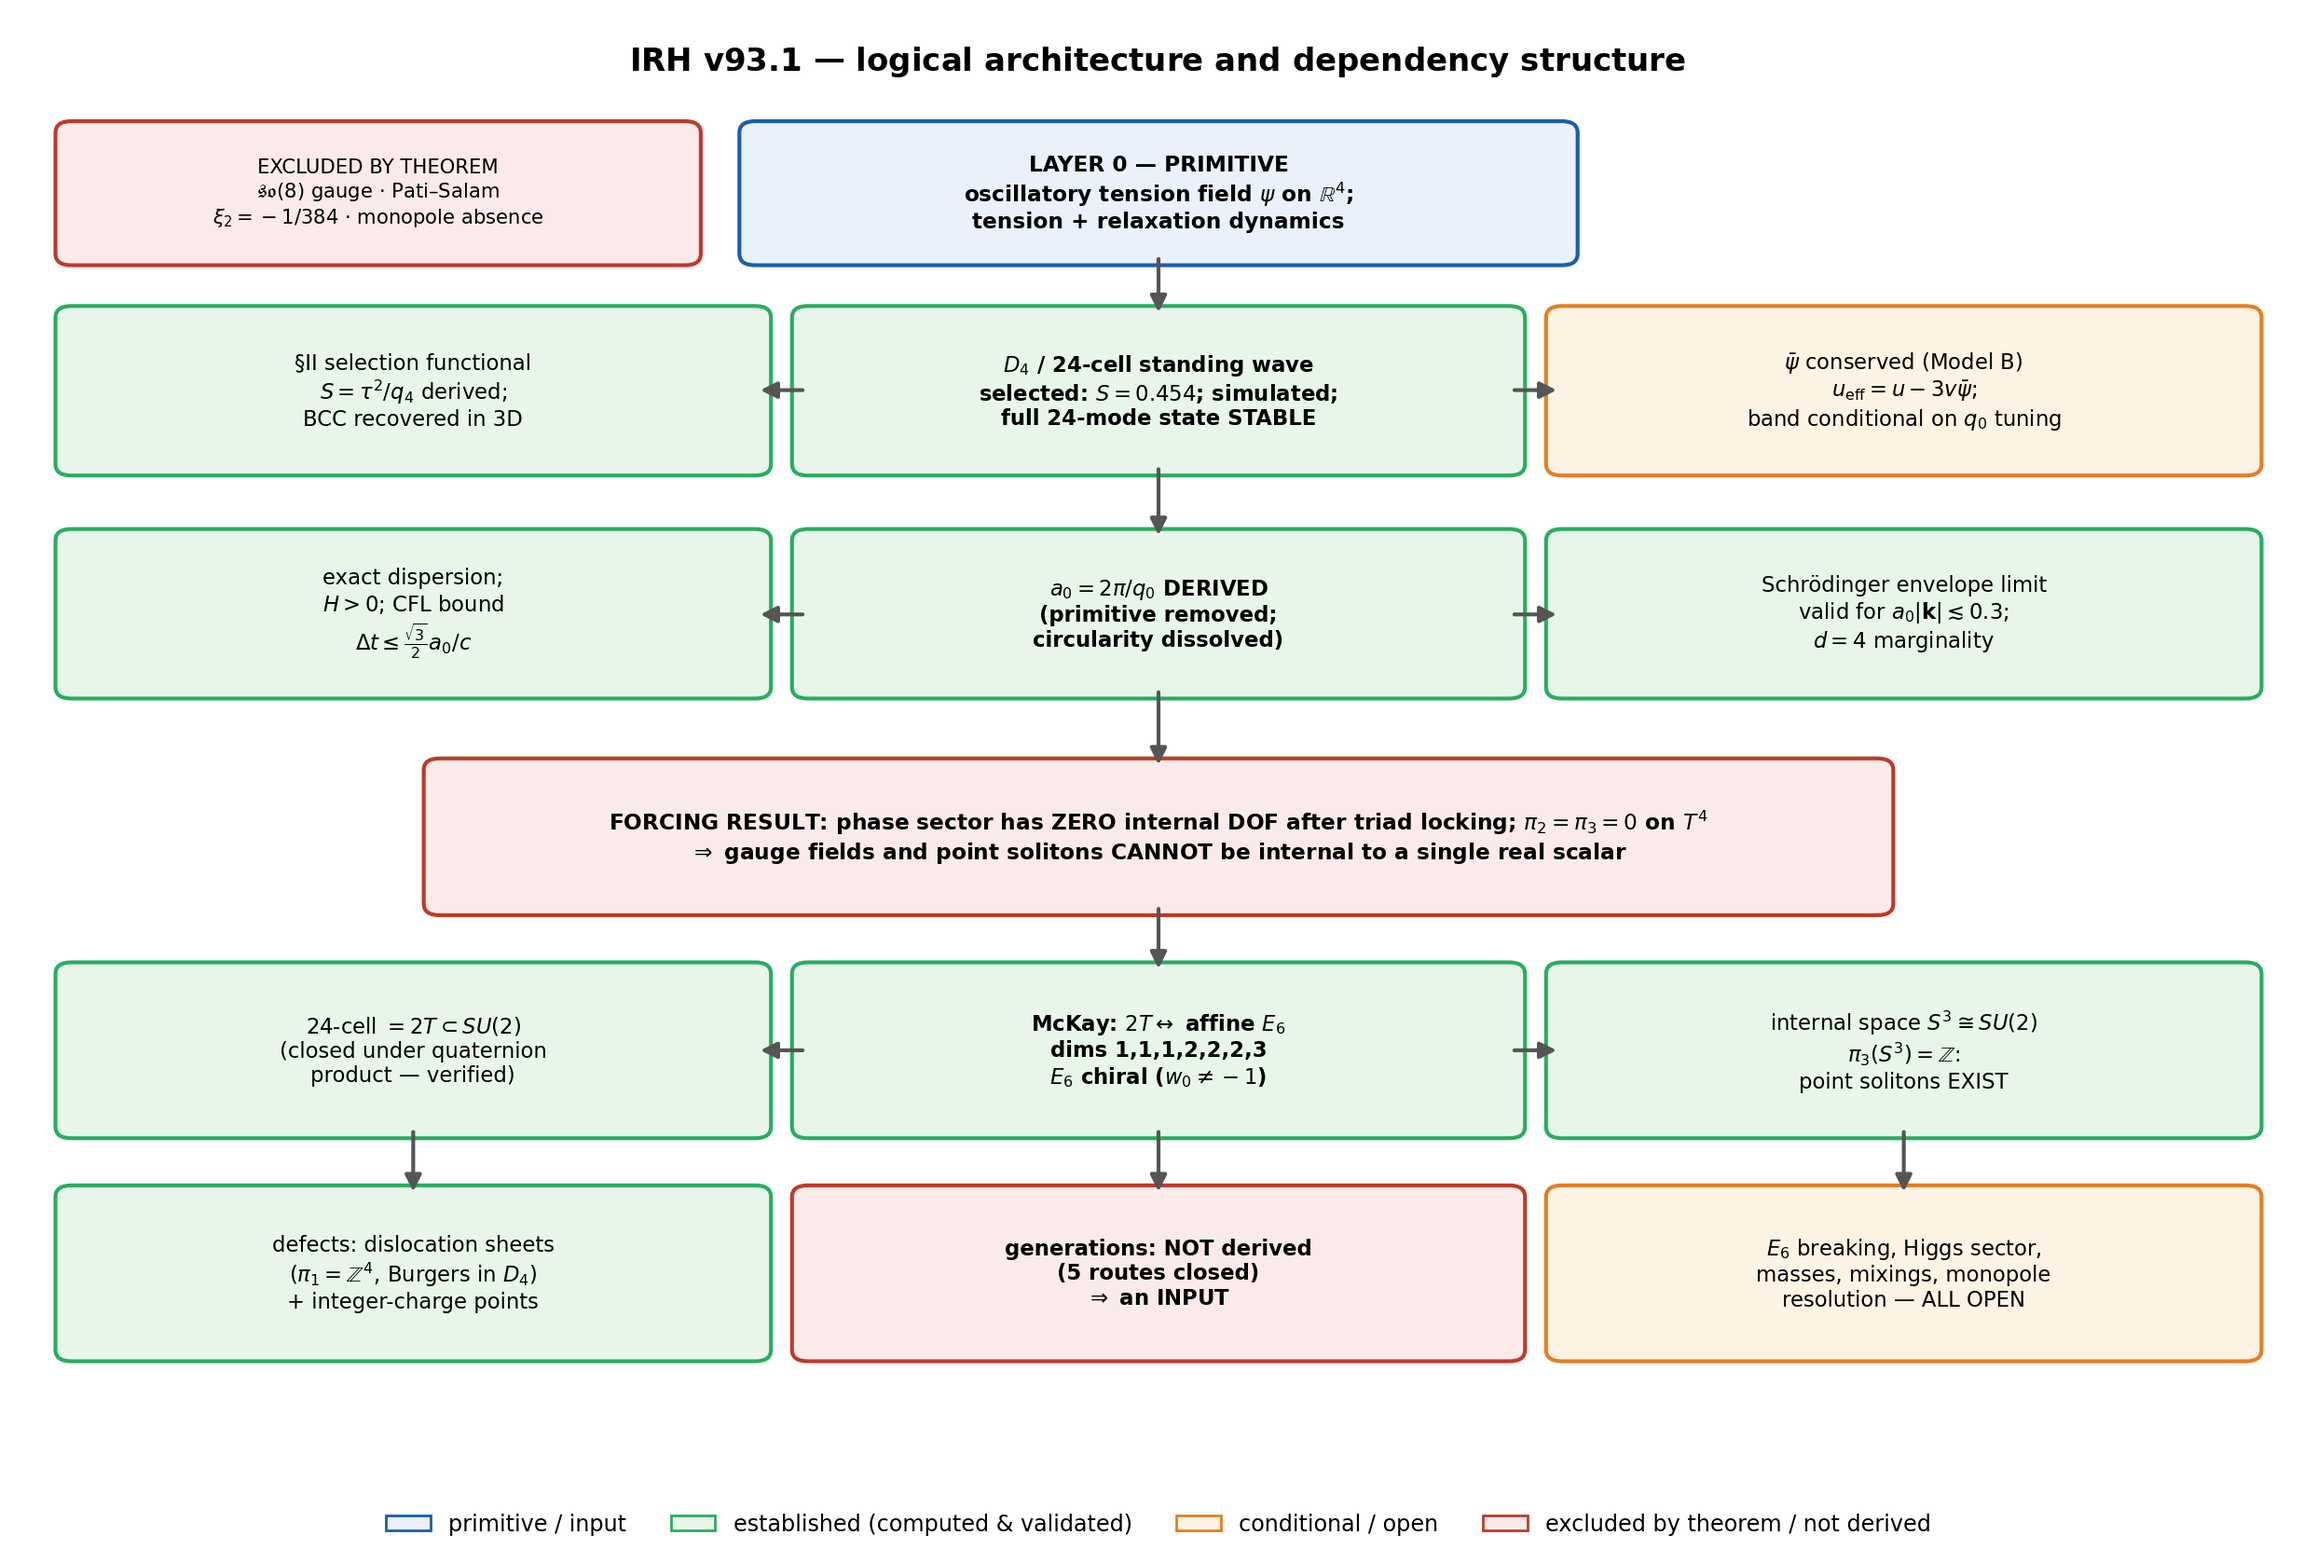
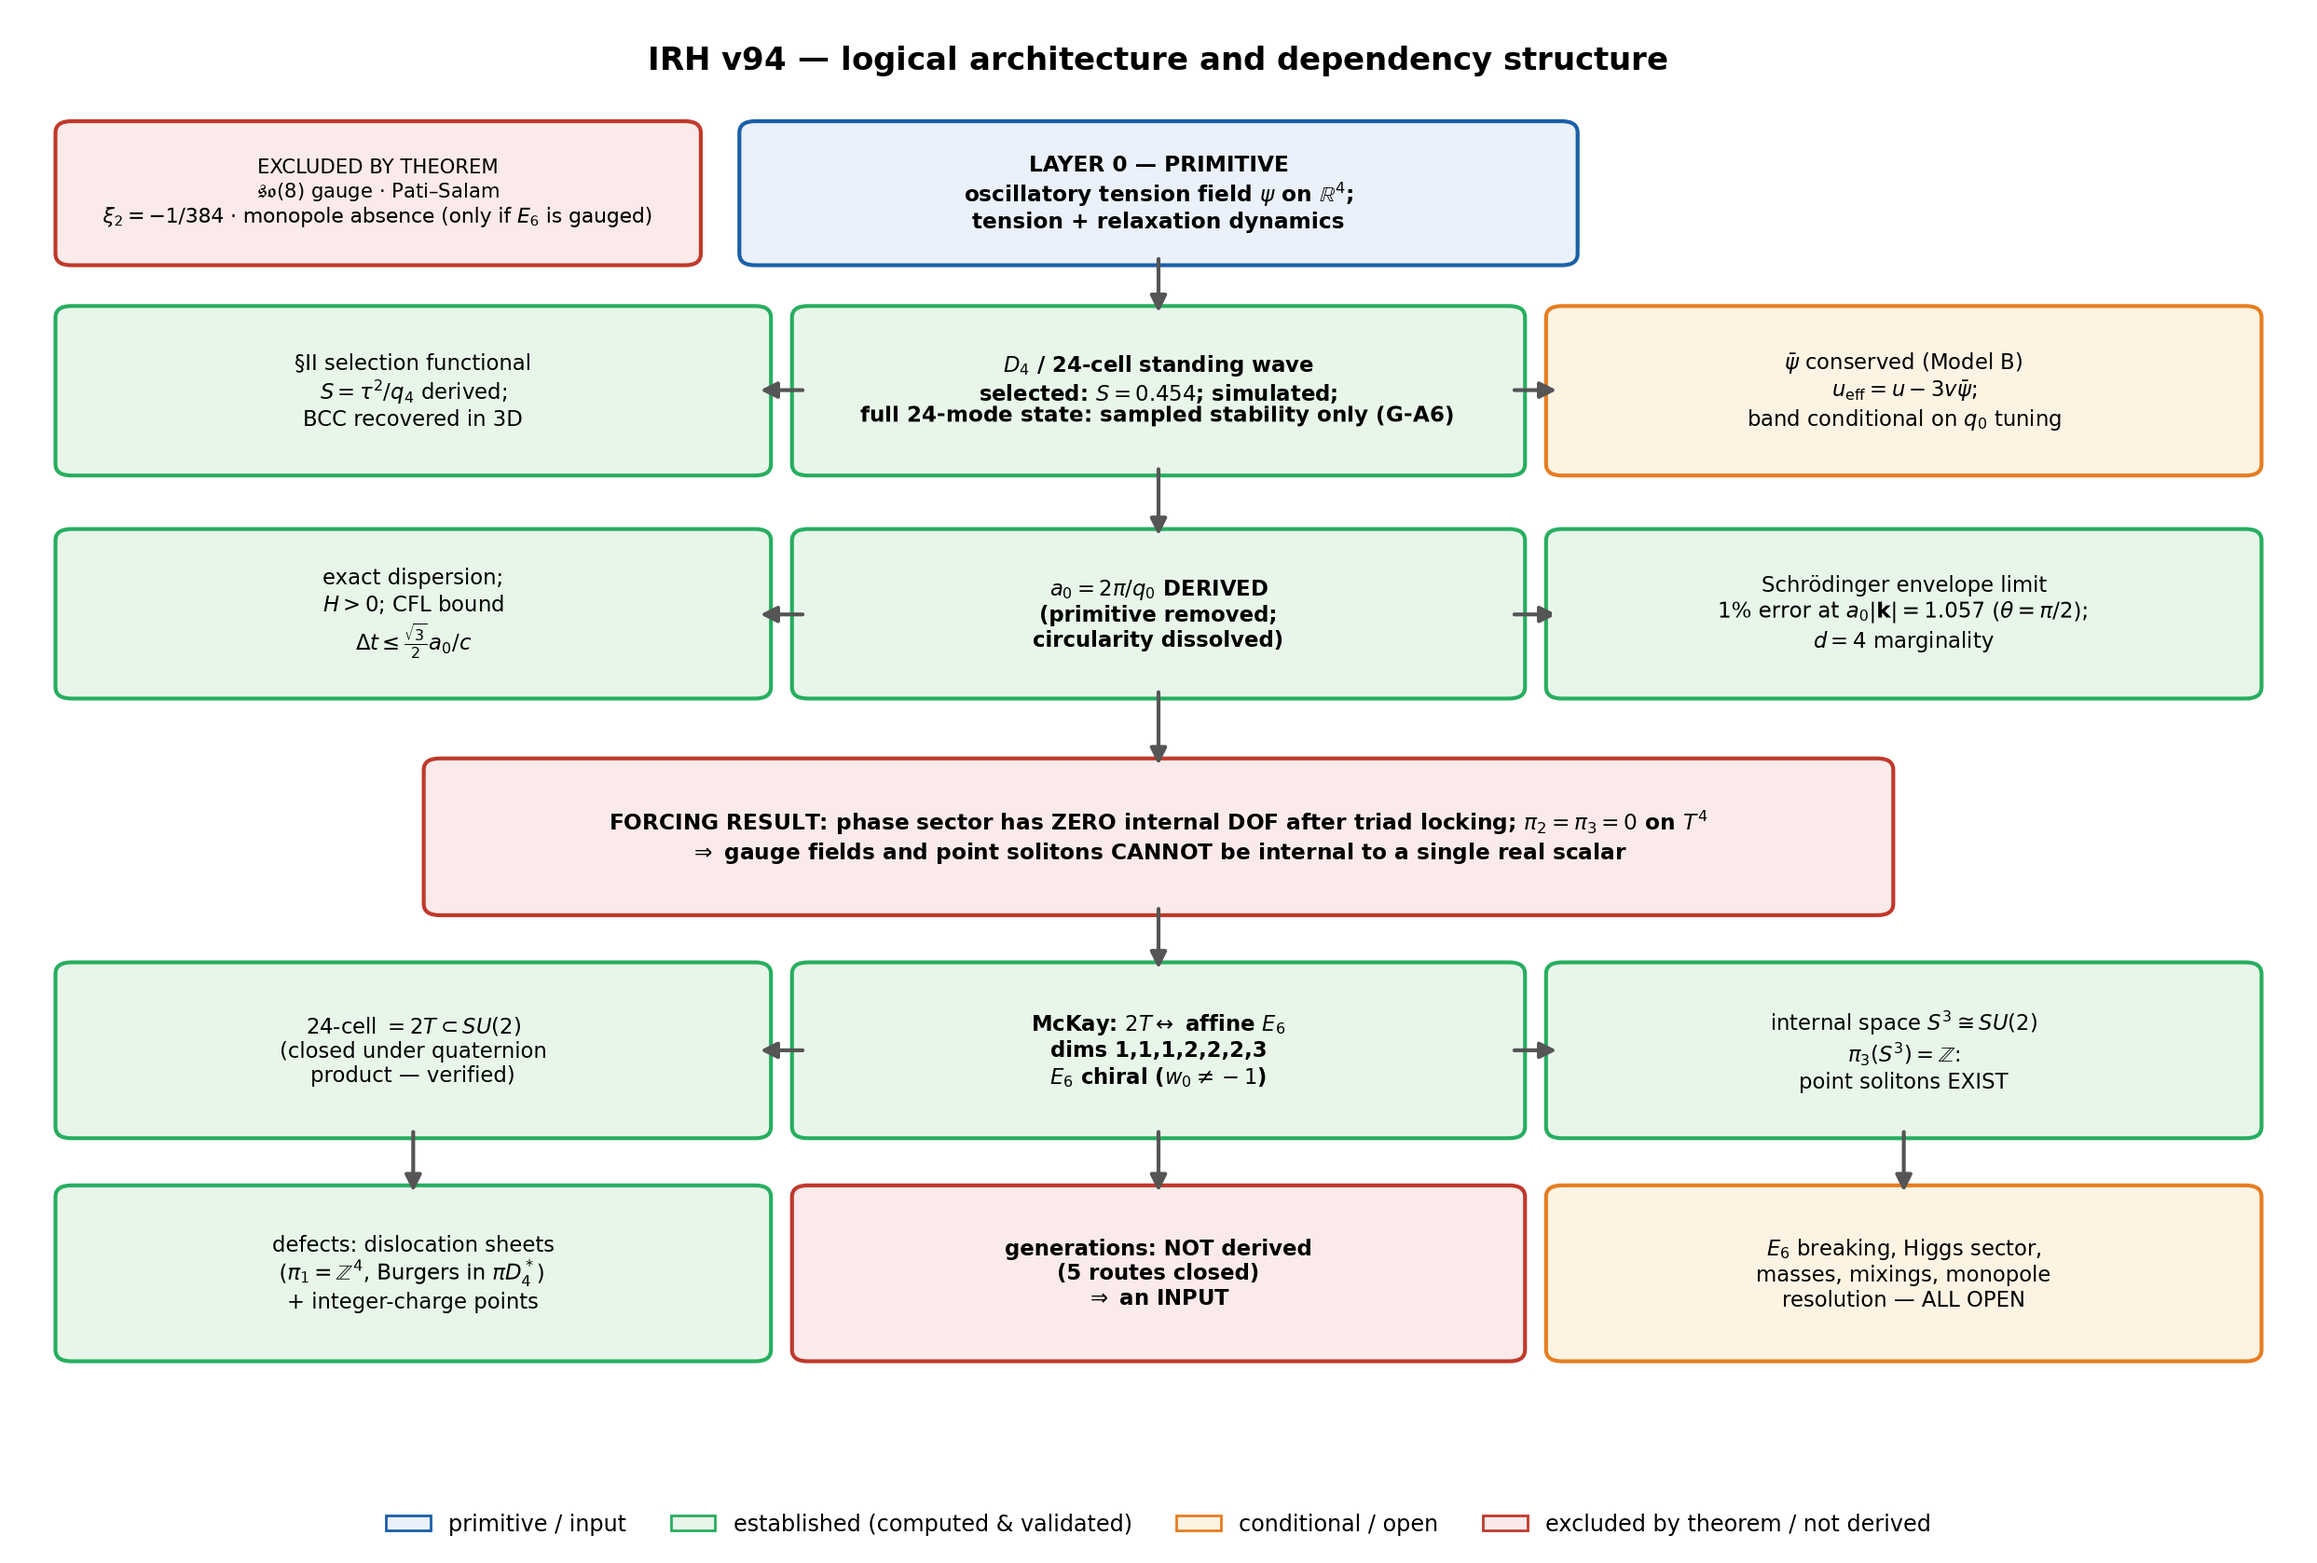
G-A22 advisories (run 12, EXP-1200 R-TEX 2): monopole wording made conditional; fig09 three-families box; fig01 title, monopole, stability, validity and Burgers text
Sources: swarm/run11/adj/G-A22_trace.md (Brandon items 3-5), swarm/run11/w-ga22r2/OCCURRENCES_r2.md
§E items 1-3, RUN11_REPORT.md §4 item 1; fig01 validity box: G-C13r_trace.md §6; fig01 Burgers box:
AUDIT_gemini_notebook_synthesis_2026-11-22.md item 1 (pi D4*), consistent with tex l.85/709/722/766/1017.
tex (programme/v94/IRH_v94.tex):
- l.69 abstract: monopole absence "is inconsistent with an E6 gauge group" -> "is withdrawn: it would be
  inconsistent with E6 realised as a broken gauge group (§V.3)".
- l.748: "EXCLUDED — monopole absence ... is inconsistent with an E6 gauge group." -> "WITHDRAWN — ... not
  excluded by proof but withdrawn: it would be inconsistent with E6 realised as a broken gauge group."
  (matches the conditional second sentence of 08c57cd).
- l.831 ledger reason: + "if E6 is realised as a broken gauge group (§V.3)".
- l.888 VIII.2 Excluded: monopole absence moved out of the excluded list into a withdrawn note.
- l.683 Figure 9 caption: + note that the 2T/Q8=Z3 box records three cosets, generations NOT derived (§V.2).
PNG text edits (no generating script exists; fig_text_edit_v2.py, log record/tex/logs/figtext_v5.log EXIT=0,
0 pixels changed outside the declared text rectangles):
- fig09: "⇒ THREE families / (8+8+8 cosets)" -> "three cosets (8+8+8) / generations NOT derived (§V.2)".
- fig01: title "IRH v93.1 — ..." -> "IRH v94 — ..."; "monopole absence" -> "monopole absence (only if E6 is
[…]

diff --git a/programme/v94/IRH_v94.tex b/programme/v94/IRH_v94.tex
@@ -66,7 +66,7 @@ The framework in this version differs from v92 in kind, not merely in detail. It
 
 \textbf{What is now established.} The D$_4$ pattern is selected dynamically rather than assumed, by a parameter-free criterion $S=\tau^2/q_4$ derived symbolically, validated by recovering the Alexander--McTague BCC result in three dimensions \hyperref[ref1]{[1]}, applied in four where D$_4$ wins at $S=0.454$ with selection quantities that are exact rationals and simple radicals ($64/141$, $16/45$, $73/423$, $\tau_{D_4}/\tau_{\mathrm{BCC}}=\sqrt{2}$) rather than fitted decimals, confirmed by direct simulation from random initial conditions, and independently corroborated by a published molecular-dynamics result obtained by an unrelated method \hyperref[ref40]{[40]}. An independent mechanism-level reproduction finds $77.1\%$ of spectral power on D$_4$ with triads active versus $21.1\%$ with triads removed, rising to $89.5\%$ under annealing --- establishing the cubic triad term as the causal selection mechanism. The full 24-mode standing wave is a genuine dynamical attractor with relaxed free energy $F/V=-0.0077276$, reproduced independently at $-0.007728$. The resonance maximum is unique modulo lattice periodicity (32 periodic maxima on the $16^4$ grid); the transition is first order. The lattice constant $a_0=2\pi/q_0$ is derived rather than postulated. Four-dimensionality acquires a new structural argument: the Swift--Hohenberg \hyperref[ref2]{[2]} curvature term is exactly scale-invariant at $d=4$. The gauge-algebra label is identified as $E_6$, read off the pattern's own group structure via the binary tetrahedral group and the McKay correspondence \hyperref[ref3]{[3]} rather than imposed to fit a target. The geometric core is now machine-checked: eight Lean~4 modules compile cleanly with no \texttt{sorry}, \texttt{admit}, or \texttt{axiom}.
 
-\textbf{What is excluded by theorem.} SO(8) cannot be the gauge algebra, by two independent proofs. The Standard Model algebra does not embed in $\mathfrak{so}(8)$ by any route. The anisotropy coefficient $\xi_2=-1/384$ is not derivable from the stated lattice. Both time-step values stated in v92 violate the framework's own stability bound. Three generations is \textbf{not} a derived result: five candidate mechanisms were tested and all five are closed. Monopole absence, claimed in earlier versions, is inconsistent with an $E_6$ gauge group.
+\textbf{What is excluded by theorem.} SO(8) cannot be the gauge algebra, by two independent proofs. The Standard Model algebra does not embed in $\mathfrak{so}(8)$ by any route. The anisotropy coefficient $\xi_2=-1/384$ is not derivable from the stated lattice. Both time-step values stated in v92 violate the framework's own stability bound. Three generations is \textbf{not} a derived result: five candidate mechanisms were tested and all five are closed. Monopole absence, claimed in earlier versions, is withdrawn: it would be inconsistent with $E_6$ realised as a broken gauge group (\S~V.3).
 
 \textbf{What remains open} is stated exhaustively in \S~IX, classified by the type of work each item requires. Every correction made during verification --- including corrections to the author's own prior output --- is recorded in the appendices, and every externally attributable claim carries a linked numerical citation.
 
@@ -680,7 +680,7 @@ E₆ passes the identical test $\mathfrak{s}$$\mathfrak{o}$(8) fails. It has the
 \begin{figure}[htbp]
 \centering
 \includegraphics[width=0.92\linewidth]{figs/fig09.png}
-\caption{\textbf{Figure 9.} \textit{Left:} the 24 vertices coloured by coset of $Q_8$ in 2T. \textit{Right:} the resulting structural chain from substrate to Standard Model. Scope (gap G-A22): the box ``$\Rightarrow$ gauge algebra $E_6$'' records the gauge-algebra label adopted by the scope decision of \S IV.4, not a derived gauge algebra; no Yang--Mills kinetic term or Higgs sector for $E_6$ is derived.}
+\caption{\textbf{Figure 9.} \textit{Left:} the 24 vertices coloured by coset of $Q_8$ in 2T. \textit{Right:} the resulting structural chain from substrate to Standard Model. Scope (gap G-A22): the box ``$\Rightarrow$ gauge algebra $E_6$'' records the gauge-algebra label adopted by the scope decision of \S IV.4, not a derived gauge algebra; no Yang--Mills kinetic term or Higgs sector for $E_6$ is derived. The box ``$2T/Q_8=\mathbb{Z}_3$'' records three cosets of eight; three generations are NOT derived from it (\S V.2).}
 \end{figure}
 
 \subsection*{IV.4 The Gauge Decision}
@@ -745,7 +745,7 @@ This must be stated plainly because the coincidence is seductive. The 24-cell re
 
 Any simple gauge group broken to a subgroup containing an unbroken $U(1)$ has $\pi_2(G/H)=\mathbb{Z}$ and therefore stable magnetic monopoles \hyperref[ref33]{[33]}. $E_6\to\cdots\to SU(3)\times SU(2)\times U(1)$ is of exactly this form.
 
-\textbf{EXCLUDED — monopole absence}, claimed in earlier versions, is inconsistent with an E₆ gauge group. If E₆ is realised as a broken gauge group, IRH would inherit the standard unified-theory monopole problem and would require the standard resolution: inflationary dilution, or a breaking pattern avoiding the relevant topology.
+\textbf{WITHDRAWN — monopole absence}, claimed in earlier versions, is not excluded by proof but withdrawn: it would be inconsistent with E₆ realised as a broken gauge group. If E₆ is realised as a broken gauge group, IRH would inherit the standard unified-theory monopole problem and would require the standard resolution: inflationary dilution, or a breaking pattern avoiding the relevant topology.
 
 \medskip\hrule\medskip
 
@@ -828,7 +828,7 @@ $\Delta t=a_0/c$ and $\Delta t=T_P$ & \textbf{retracted} & both violate the deri
 Schrödinger emergence & \textbf{corrected} & original carrier degenerate; replaced by §III.3 \\
 Lorentzian signature from $i^2=-1$ & \textbf{retracted} & canonical $i\hbar$ is present in Euclidean field theory also; does not select signature \\
 Einstein equations from elasticity & \textbf{retracted} & analogy, not derivation; see §IX.3 \\
-Monopole absence & \textbf{retracted} & inconsistent with E₆ breaking topology \\
+Monopole absence & \textbf{retracted} & inconsistent with E₆ breaking topology if E₆ is realised as a broken gauge group (§V.3) \\
 Higgs VEV $v_0$, $A_3$ mass and widths, CKM & \textbf{retracted} & computed in an excluded framework, with independent arithmetic errors \\
 "Zero empirical calibration", "100\% closure" & \textbf{retracted} & not defensible in any version \\
 $\alpha^{-1}=137+1/(28-\pi/14)$ as derived & \textbf{downgraded} & arithmetic verified exact; physical derivation absent. Numerical ansatz only \\
@@ -885,7 +885,7 @@ Lean 4 formalization, machine-checked end to end & CONFIRMED & §VI-A.2 \\
 
 \subsection*{VIII.2 Excluded}
 
-$\mathfrak{so}(8)$ as gauge algebra; SM embedding in $\mathfrak{so}(8)$; Pati–Salam from $\mathfrak{so}(8)$; $\xi_2=-1/384$; both v92 time steps; Kerr solitons in 4D; skyrmions from a single real scalar; gauge structure internal to a single scalar; three generations as derived; monopole absence; universal optimality of D₄.
+$\mathfrak{so}(8)$ as gauge algebra; SM embedding in $\mathfrak{so}(8)$; Pati–Salam from $\mathfrak{so}(8)$; $\xi_2=-1/384$; both v92 time steps; Kerr solitons in 4D; skyrmions from a single real scalar; gauge structure internal to a single scalar; three generations as derived; universal optimality of D₄. Monopole absence is withdrawn rather than excluded: it fails only if E₆ is realised as a broken gauge group (§V.3).
 
 \subsection*{VIII.3 Inputs (acknowledged assumptions)}
 
